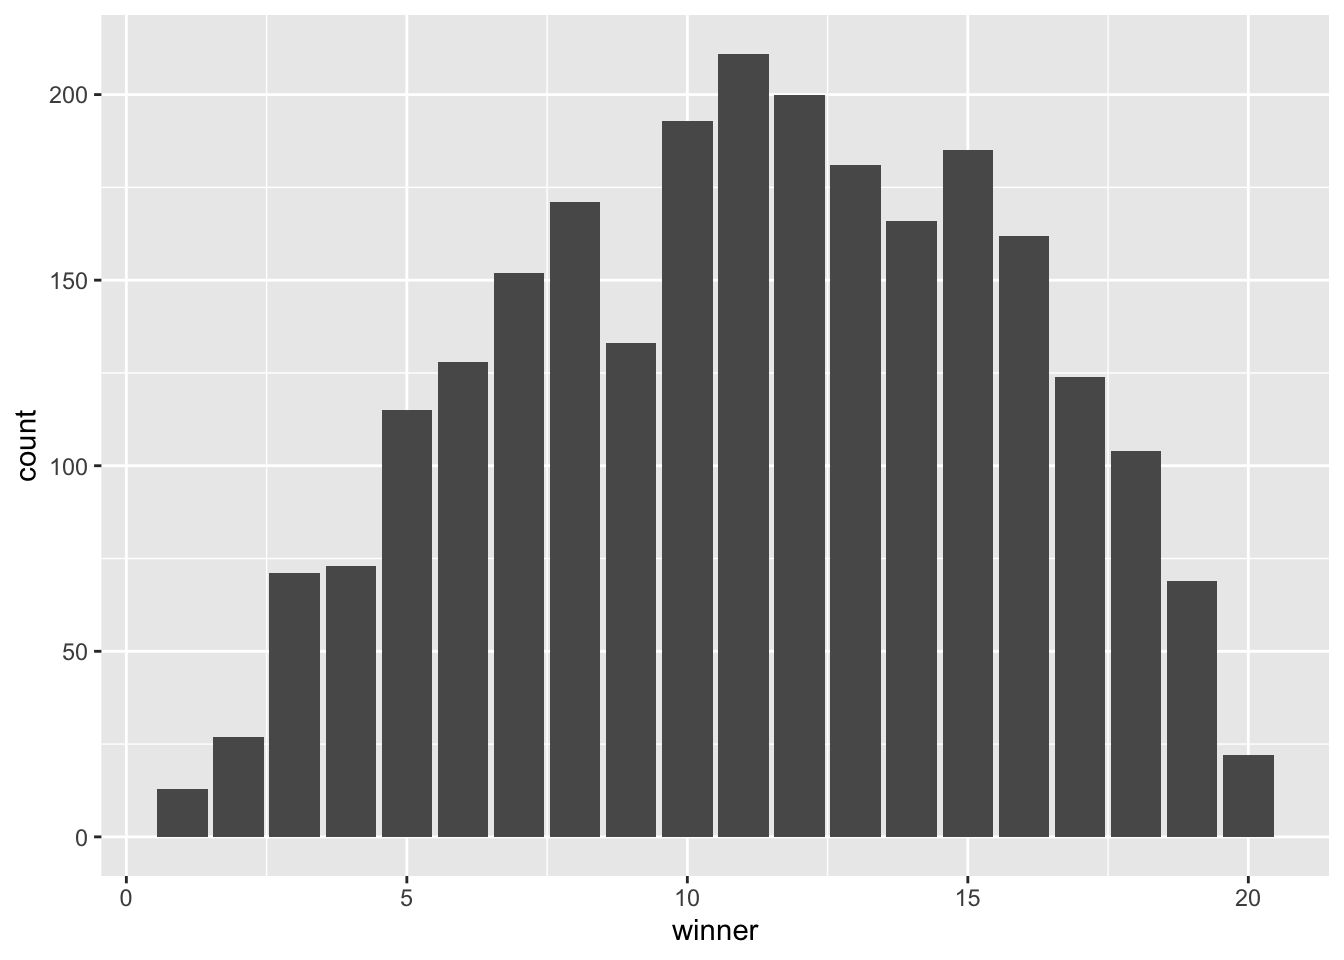
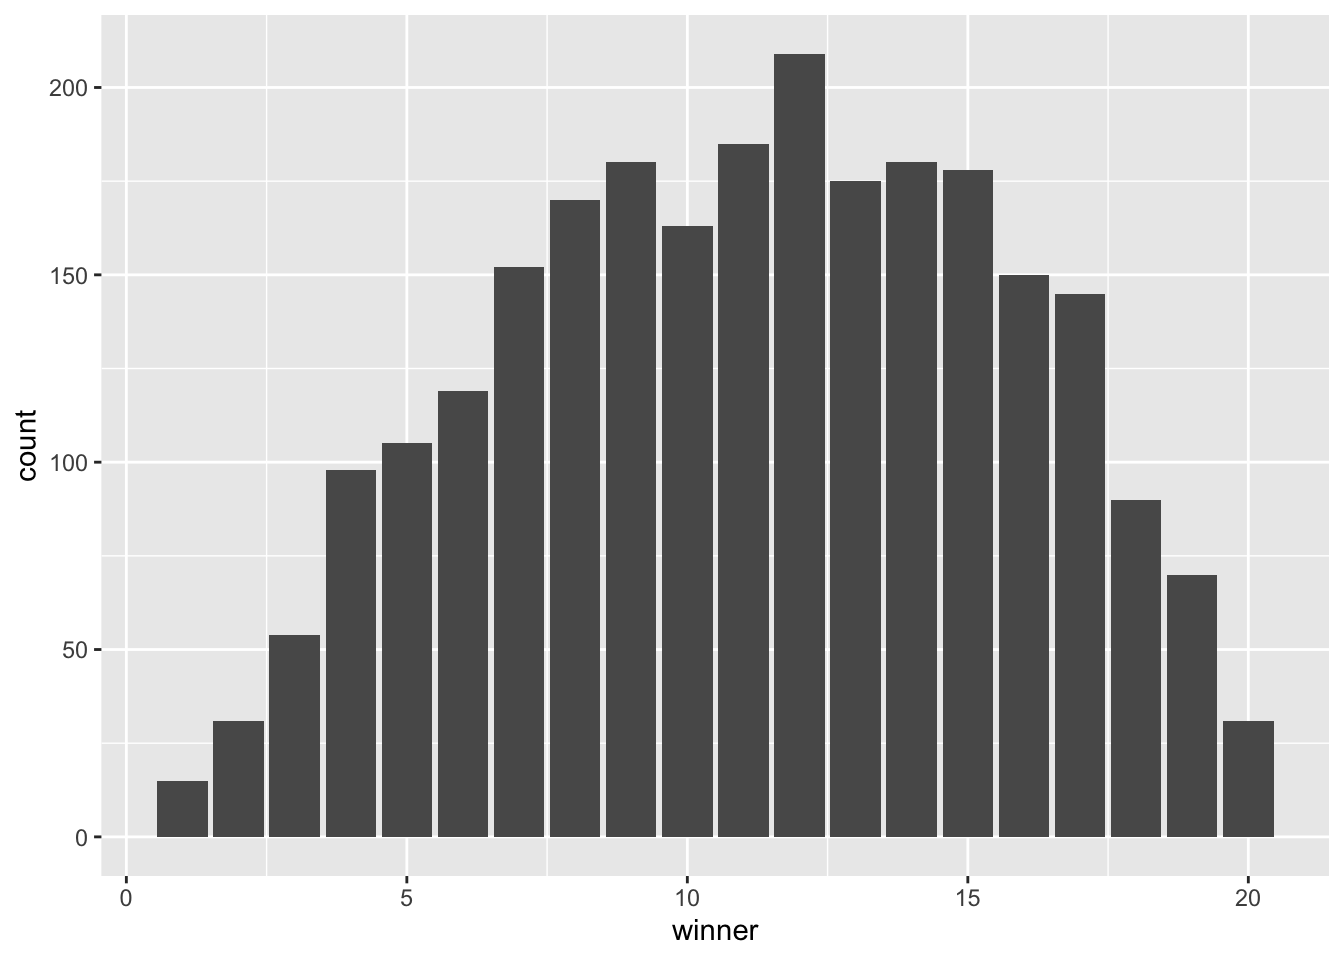
Second draft update

diff --git a/content/post/riddler/2020-05-15-rolling-with-advantage.html b/content/post/riddler/2020-05-15-rolling-with-advantage.html
@@ -59,11 +59,16 @@ disadvantage_of_advantage %&gt;%
 <pre><code>## # A tibble: 1 x 1
 ##   winner
 ##    &lt;dbl&gt;
-## 1   9.68</code></pre>
+## 1   9.88</code></pre>
 <pre class="r"><code>disadvantage_of_advantage %&gt;%
   summarise(winner = mean(winner))</code></pre>
 <pre><code>## # A tibble: 1 x 1
 ##   winner
 ##    &lt;dbl&gt;
 ## 1   11.2</code></pre>
+</div>
+<div id="analytic-approach" class="section level2">
+<h2>Analytic approach</h2>
+<p>Order statistics. <span class="math inline">\(X_{max}\)</span> distribution given <span class="math inline">\(X_1, X_2\)</span>. <span class="math inline">\(Y_{min}\)</span> distribution
+given <span class="math inline">\(Y_1 = X_{max}_1\)</span></p>
 </div>
